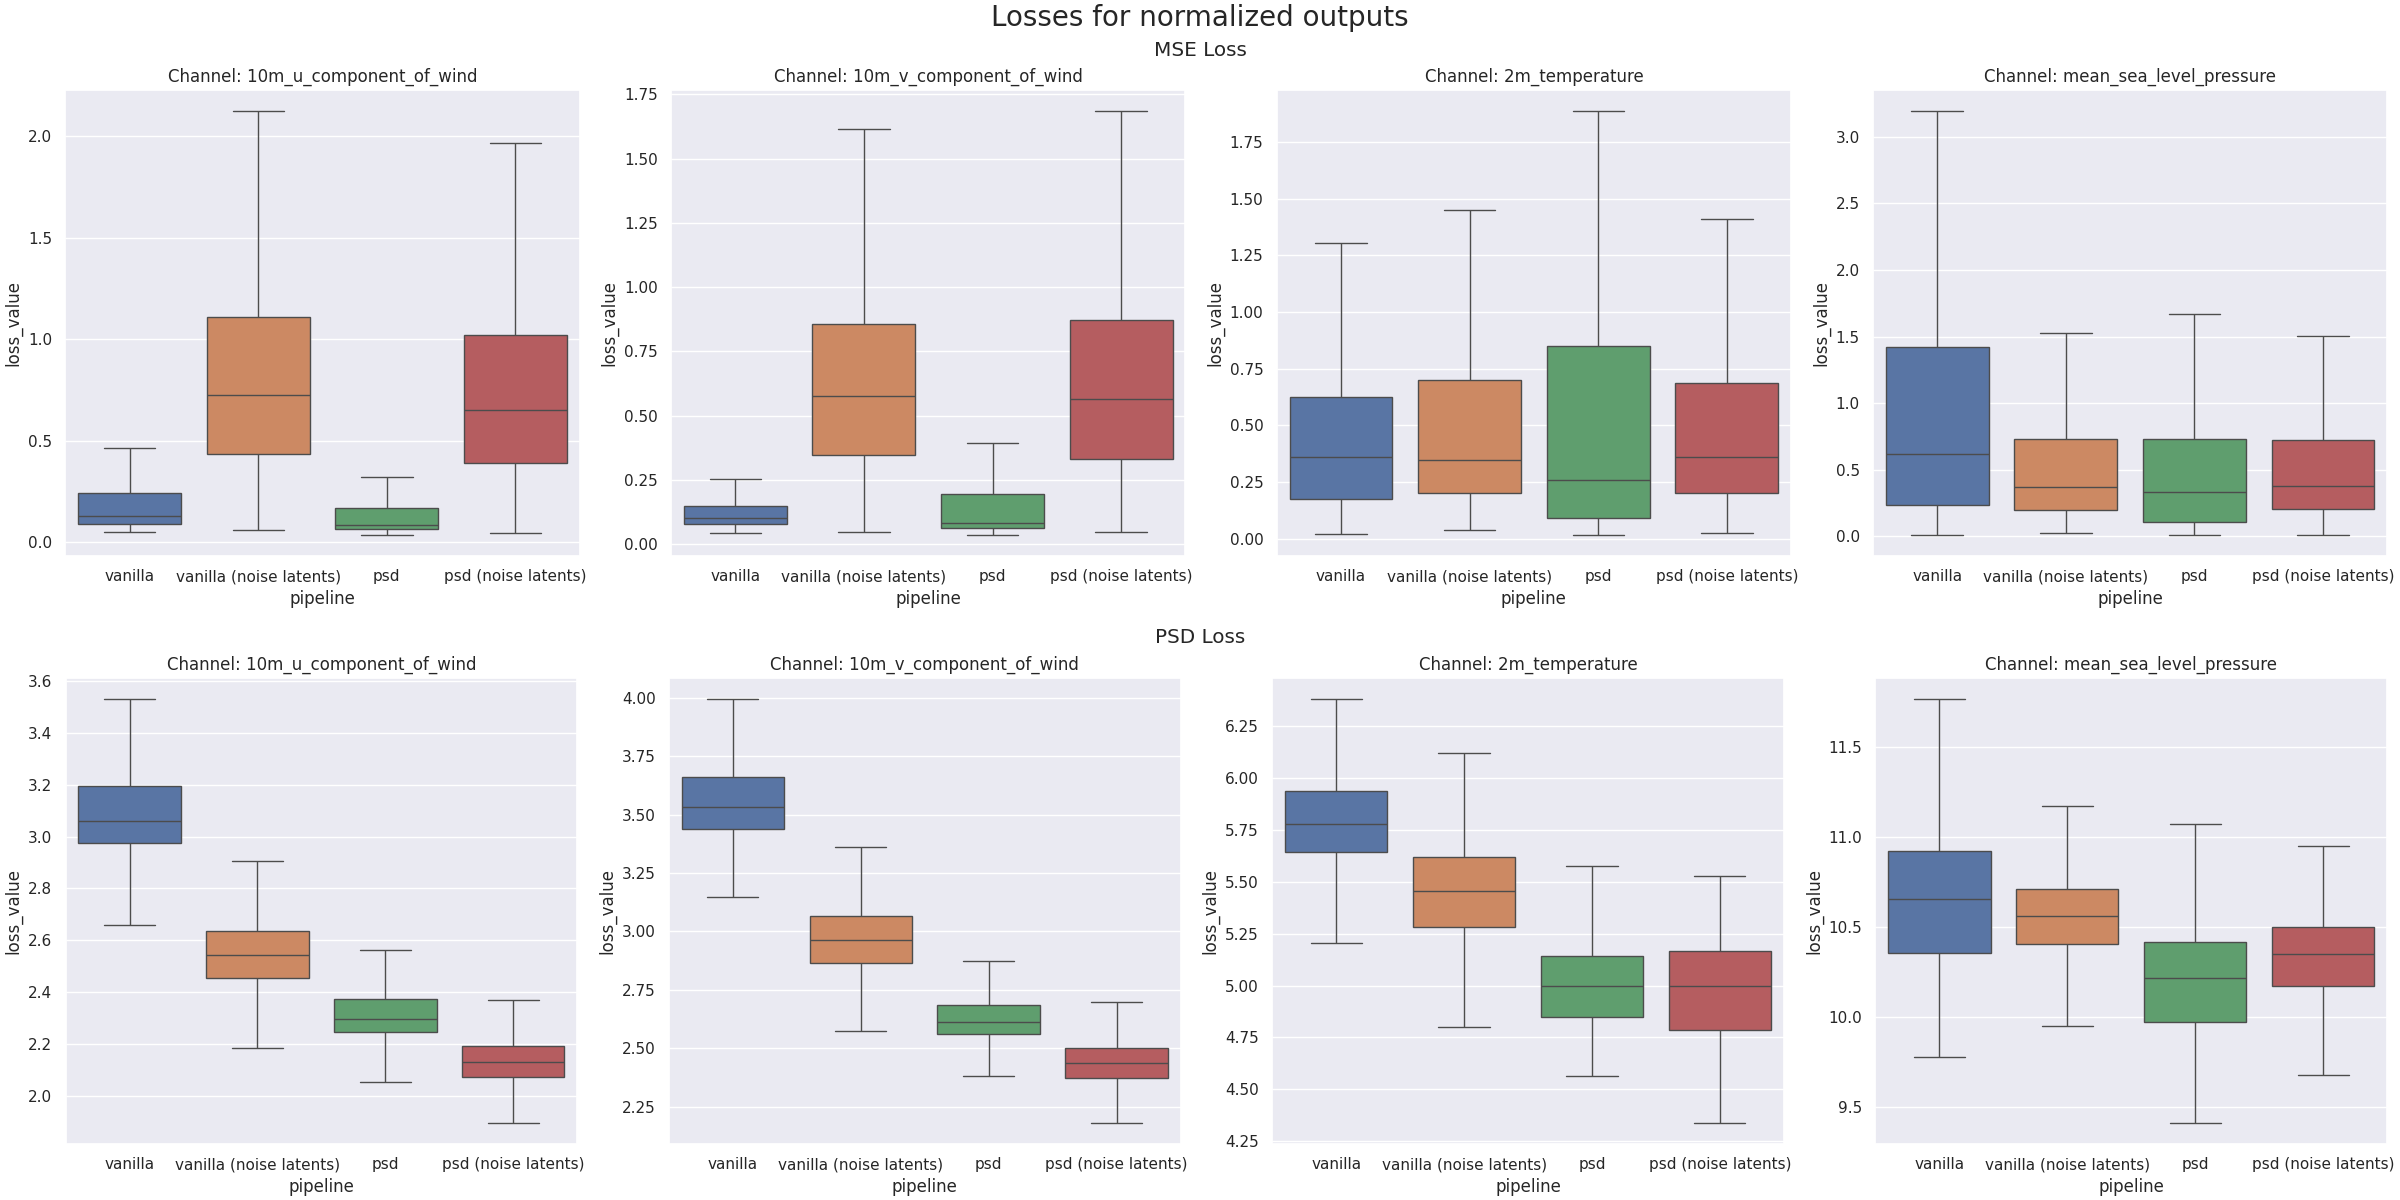
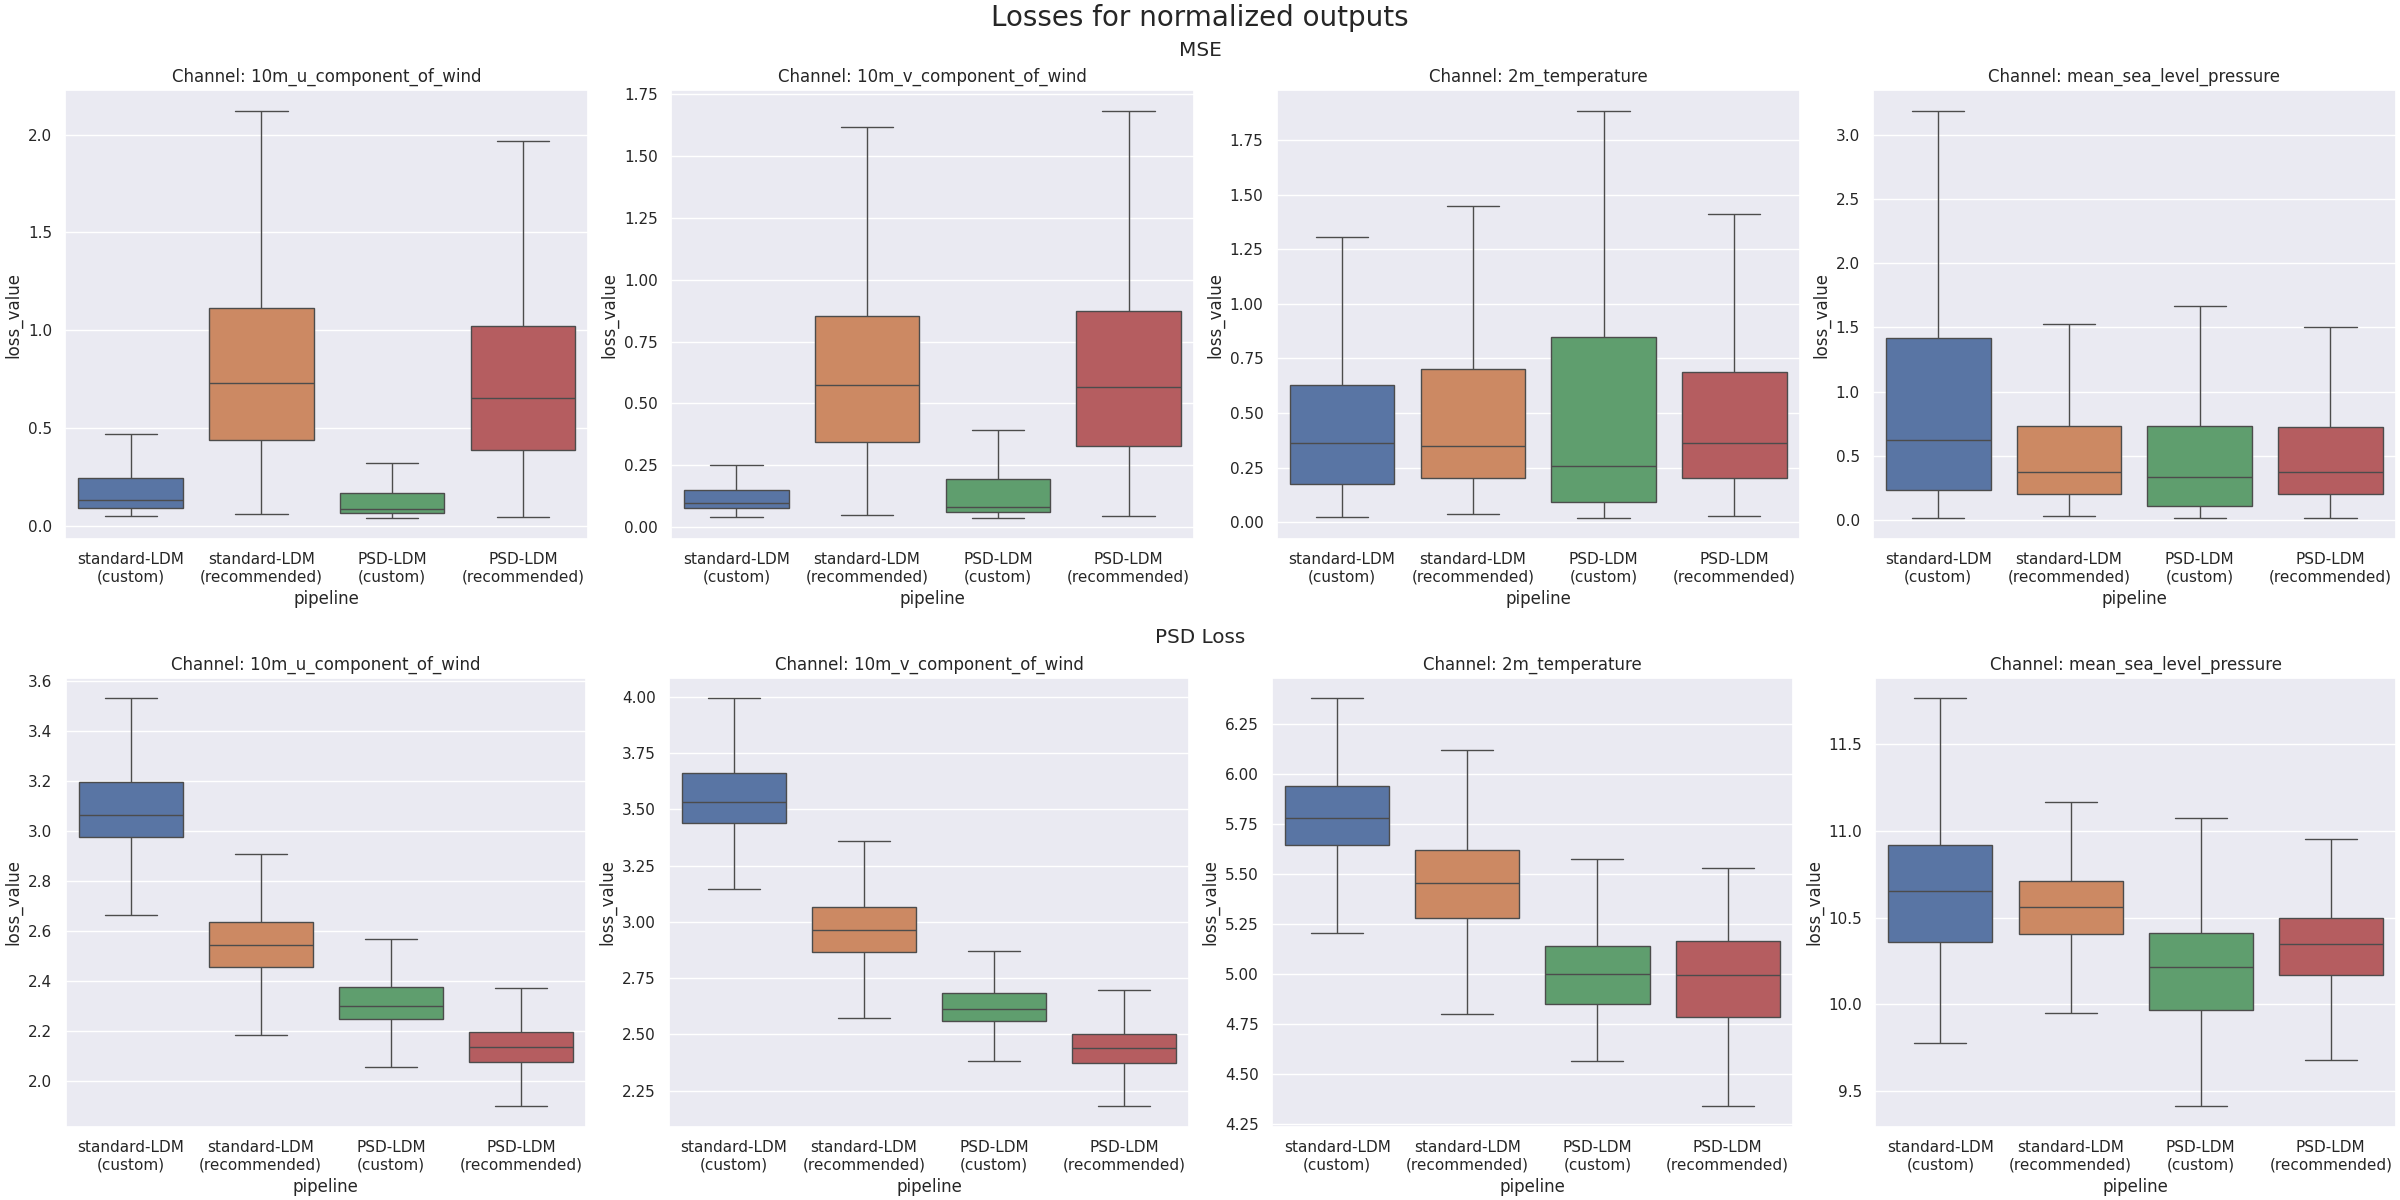
Update plot test losses to change loss names and pipeline names

diff --git a/plot-test-losses.py b/plot-test-losses.py
@@ -6,11 +6,23 @@ from matplotlib.axes import Axes
 from pathlib import Path
 
 
-SAVE_PATH = Path("plots/test_loss_plots")
+SAVE_PATH = Path("plots/test_losses")
 
 PIPELINE_ORDER = ["vanilla", "vanilla (noise latents)", "psd", "psd (noise latents)"]
+PIPELINE_TITLE_MAP = {
+    "vanilla": "standard-LDM\n(custom)",
+    "vanilla (noise latents)": "standard-LDM\n(recommended)", 
+    "psd": "PSD-LDM\n(custom)", 
+    "psd (noise latents)": "PSD-LDM\n(recommended)"
+}
+
 CHANNEL_ORDER = ["10m_u_component_of_wind", "10m_v_component_of_wind", "2m_temperature", "mean_sea_level_pressure"]
+
 LOSS_ORDER = ["MSE", "PSD"]
+LOSS_TITLE_MAP = {
+    "MSE": "MSE",
+    "PSD": "PSD Loss",
+}
 
 
 def plot_losses(df: pd.DataFrame, title: str, save_path: Path):
@@ -27,7 +39,7 @@ def plot_losses(df: pd.DataFrame, title: str, save_path: Path):
 
     for subfig_index, subfig in enumerate(subfigs):
         loss_type = LOSS_ORDER[subfig_index]
-        subfig.suptitle(f"{loss_type} Loss")
+        subfig.suptitle(LOSS_TITLE_MAP[loss_type])
 
         axes: list[Axes] = subfig.subplots(nrows=1, ncols=len(CHANNEL_ORDER))
 
@@ -47,6 +59,9 @@ def plot_losses(df: pd.DataFrame, title: str, save_path: Path):
                 showfliers=False,
                 order=PIPELINE_ORDER,
             )
+            
+            ax.set_xticklabels([PIPELINE_TITLE_MAP[p] for p in PIPELINE_ORDER])
+            
     
     plt.savefig(save_path)
 
